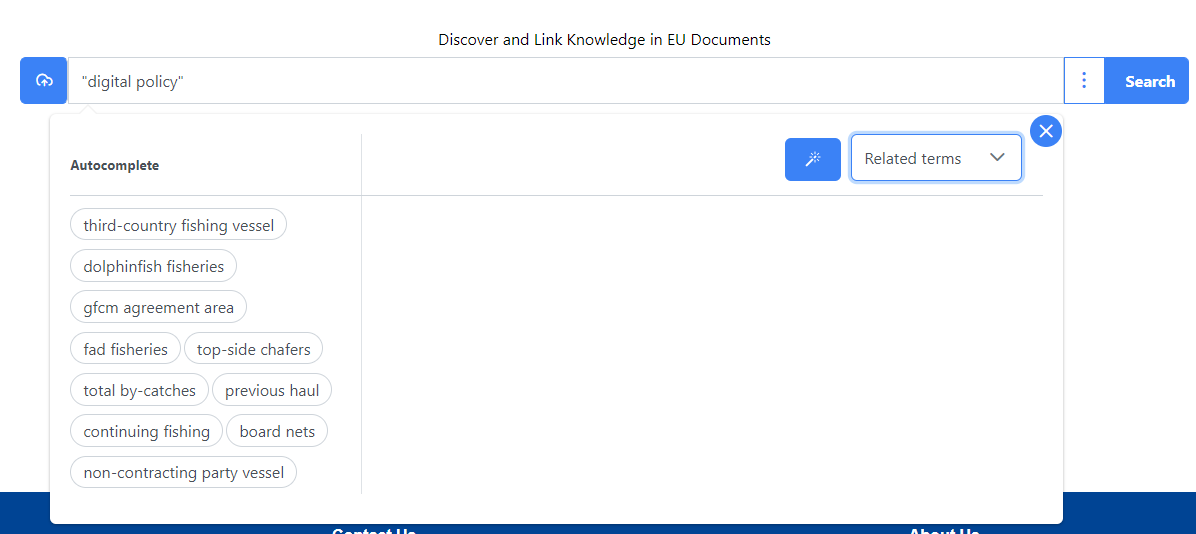
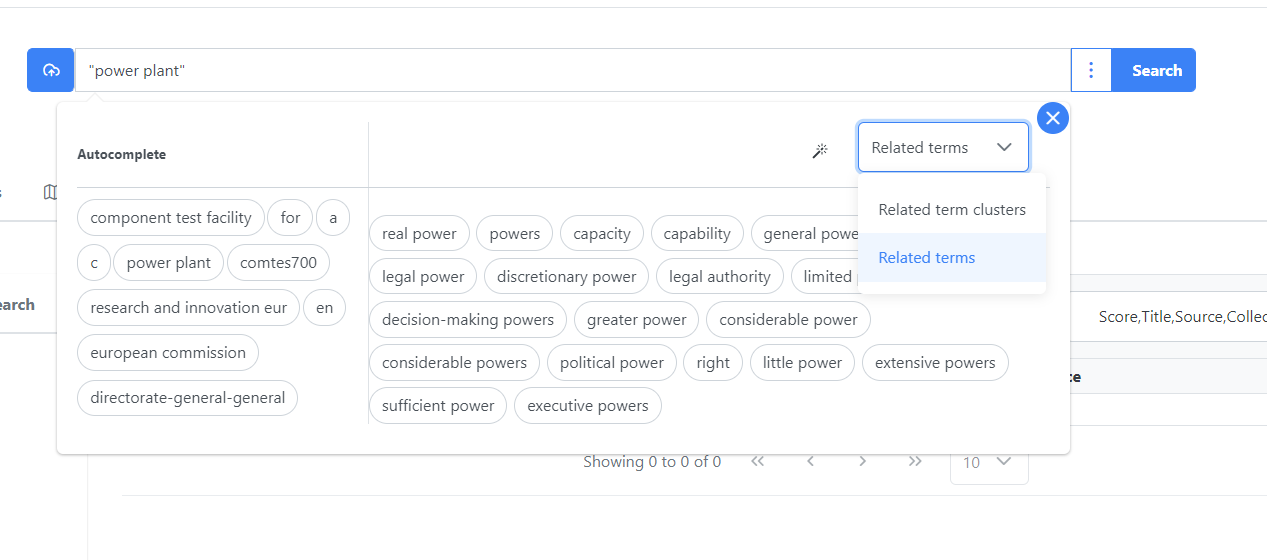
push of mkdocs files with change in pages

diff --git a/seta-doc/docs/user-guide/web-app.md b/seta-doc/docs/user-guide/web-app.md
@@ -1,5 +1,5 @@
 
-Within the search page it is possible to search:
+Within the search page the options to search are:
 
 * By term
 * By phrase
@@ -7,22 +7,28 @@ Within the search page it is possible to search:
     
 
 ### Search by term
-As in the image below, if we put a term in the search bar, the app will list the related terms. Furthermore if we click on the *wizard* ![Image title](../img/wizard.png)
- icon, the query can be enriched with terms related.
+If we search by a term, when we start typing in the search bar, a dropdown box appears automatically, in this dropdown box we see two sections:
 
-![Screenshot](../img/search_term.png){ width="700" }
+- a section with a list of *autocomplete* words (left side), 
+- a section with a map of the *related terms* to search (right side). Also in this section, there is the possibility to choose for *related terms* or *related terms clusters*. And finally there is a *wizard* ![Image title](../img/wizard.png) tool to use if we want to **enrich query automatically**. 
+
+
+![Screenshot](../img/search_term.png)
 
 
 ### Search by phrase
-Search by phrase requires to put the double quotes *" "* in between the phrase, afterwards, as with the term search, it can be possible to click on the *wizard* icon, the query can be enriched with terms related.
-![Screenshot](../img/search_phrase.png){ width="700" }
+If we want to search by phrase it is necessary to enclose with double quotes *" "* the phrase, after that, as with the term search, the dropdown box will appear automatically with the two sections
+
+
+![Screenshot](../img/search_phrase.png)
 
 
 ### Search by document or text
 
-If you want to search uploading a document or put a text, just click in the cloud button and a pop up window will appear:
+If you want to search by uploading a document or by a text, just click in the cloud button ![Image title](../img/cloud-button.png){ width=30} and a pop up window will appear. In this window, there are two sections; the first one on top is to upload the document, we can either select the path where the document is located or we can drag and drop. In both cases it is possible to cancel the upload file before the search, with the button ![Image title](../img/cancel-upload.png){ width=30}.
+In the lower section of the pop-up it is possible to paste the text you want to search. In both cases it is always possible to cancel the seacrh and the pop-up window will close.
 
-![Screenshot](../img/upload.png){ width="700" }
+![Screenshot](../img/upload.png)
 
 
 ### Options

diff --git a/seta-doc/docs/user-guide/setup.md b/seta-doc/docs/user-guide/setup.md
@@ -5,20 +5,20 @@ SeTA has two user interfaces:
 
 - API: An Application Programming Interface exposing data and functionality in a consistent format.
 
-## Web interface
-The Seta Web interface is a user friendly interact.
+## Web App
+The Seta Web App is a user friendly interact that allows the user to access the content in a Web browser. 
  
  ![Screenshot](../img/main_screen.jpg){ width="600" }
 
 
-In the web interface it is possible to find:
+In the SeTA Web App we can find:
 
 - Search tool: An online search engine tool designed to search for metadata on the SeTA database based on the user's search query. It sorts the results, and makes an ordered list of these results according to the search algorithms.
 
-- Communities: A digital platform for people with a common interest that connect and communicate with one another.
+- Communities: A digital platform for people with a common interest to discuss or share about that connect and communicate with one another.
 
 
-In order to access these features, you need either to login an EU login account or a GitHub authentication.
+To access these features, you need either to login with an EU login account or with a GitHub authentication.
 
  ![Screenshot](../img/login.jpg){ width="600" }
 
@@ -29,7 +29,7 @@ Once you are logged in, you can see in the top menu the link to the Search and t
  ![Screenshot](../img/seta_menu.png){ width="800" }
 
 
-## API interface
+## API
 
 The SeTA API provides the functions and procedures to access data from a developer point of view.
 
@@ -44,7 +44,7 @@ The Docker containers must be running.
 
 #### EU Login Authentication
 
-Open browser and go to seta-ui  [login](http://localhost/seta-ui/login) page.
+Open browser and go to seta-ui [login](http://localhost/seta-ui/login) page.
 
 Connect with EU Login account (*you can also use GitHub authentication, but EU Login will be use as an example here*)
 
